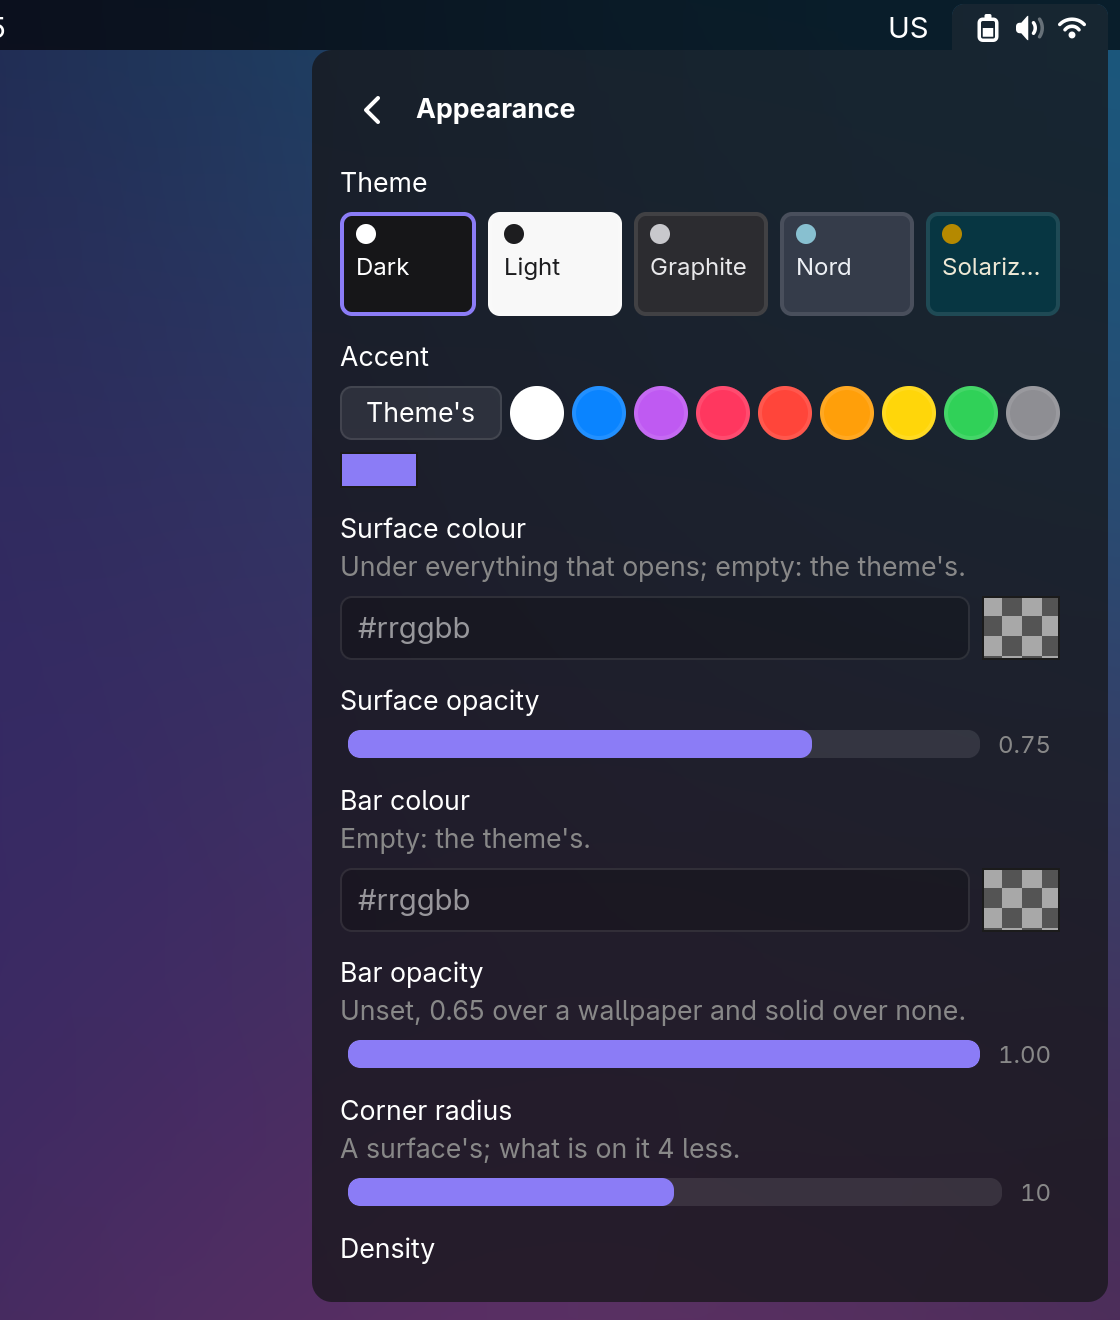
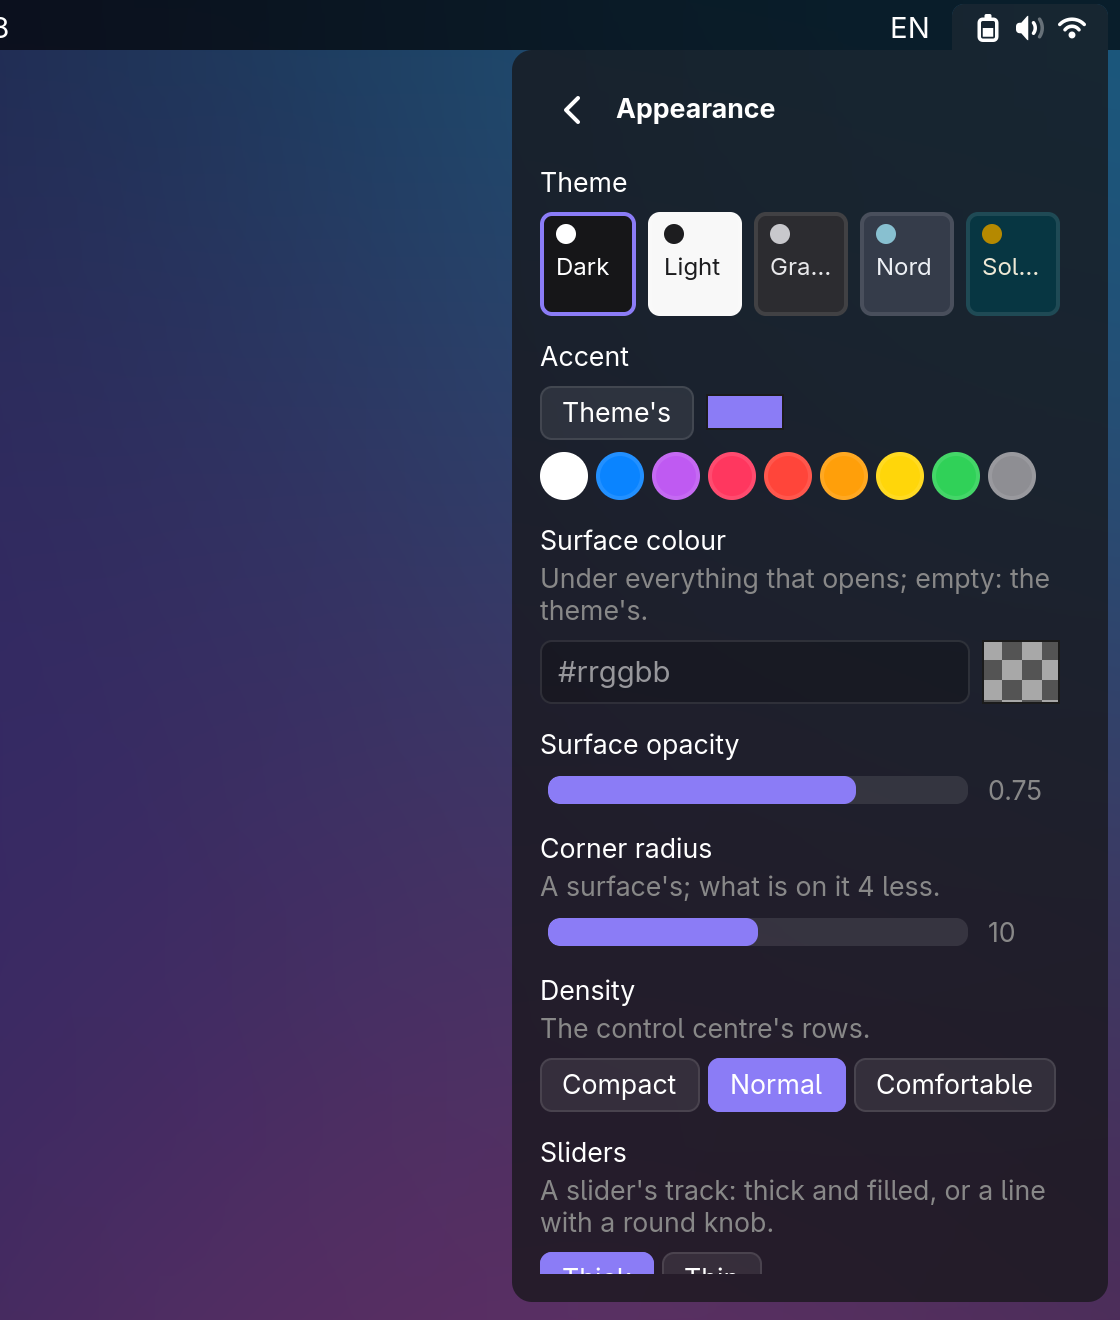
feat(kit): its page, every piece in its states (ostrov kit), in the screenshots

diff --git a/src/ui.rs b/src/ui.rs
@@ -560,3 +560,113 @@ pub fn battery_time(b: &Value) -> String {
         },
     }
 }
+
+/// The kit itself, every piece in its states on one page (`ostrov kit`): to see a change to the kit or a theme
+/// everywhere at once, and the screenshots' check. Nothing on it does anything but show itself.
+pub fn gallery(back: impl Fn() + 'static) -> gtk4::Box {
+    let root = gtk4::Box::new(Orientation::Vertical, 6);
+    root.append(&header(t("Kit"), back).0);
+    let body = gtk4::Box::new(Orientation::Vertical, 8);
+    body.add_css_class("page-body");
+    let part = |title: &str, w: &gtk4::Widget| {
+        body.append(&label(title, "dim"));
+        body.append(w);
+    };
+
+    // toggles: on with its menu, off, its glyph, its icon alone
+    let grid = gtk4::Grid::new();
+    grid.set_column_spacing(6);
+    grid.set_row_spacing(6);
+    grid.set_column_homogeneous(true);
+    let none: Option<Rc<dyn Fn()>> = None;
+    let on = Toggle::new("network-wireless-symbolic", "Wi-Fi", || (), Some(Rc::new(|| ())));
+    on.set(true, "network-wireless-symbolic", "Home");
+    let off = Toggle::new("bluetooth-symbolic", "Bluetooth", || (), Some(Rc::new(|| ())));
+    off.set(false, "bluetooth-disabled-symbolic", "Off");
+    let glyph = Toggle::new("input-keyboard-symbolic", "Keyboard", || (), none.clone());
+    glyph.glyph("EN");
+    glyph.set(false, "", "English");
+    let small = Toggle::new("weather-clear-night-symbolic", "Night", || (), none);
+    small.set(true, "", "");
+    small.size(1, 1);
+    grid.attach(&on.root, 0, 0, 2, 1);
+    grid.attach(&off.root, 2, 0, 2, 1);
+    grid.attach(&glyph.root, 0, 1, 2, 1);
+    grid.attach(&small.root, 2, 1, 1, 1);
+    grid.attach(&round("system-lock-screen-symbolic", || ()), 3, 1, 1, 1);
+    part(t("Toggles and round buttons"), grid.upcast_ref());
+
+    // sliders: any value, a few steps with their dots, its value beside it
+    let sliders = gtk4::Box::new(Orientation::Vertical, 6);
+    let any = Slider::new("audio-volume-high-symbolic", |_| ());
+    any.set(0.6, "");
+    any.root.append(&arrow(Rc::new(|| ())));
+    let words: Rc<dyn Fn(f64) -> String> = Rc::new(|v| format!("{}%", (v * 100.0).round()));
+    let steps = Slider::with_range("display-brightness-symbolic", 0.0, 1.0, 0.25, words, |_| ());
+    steps.set(0.5, "");
+    let n: Rc<dyn Fn(f64) -> String> = Rc::new(|v| format!("{v:.0}"));
+    let valued = Slider::with_range("", 0.0, 20.0, 1.0, n, |_| ()).with_value();
+    valued.set(10.0, "");
+    for s in [&any.root, &steps.root, &valued.root] {
+        sliders.append(s);
+    }
+    part(t("Sliders"), sliders.upcast_ref());
+
+    // chips: one of them, any of them; buttons beside
+    let chips = gtk4::Box::new(Orientation::Vertical, 6);
+    chips.append(&options(&["Compact", "Normal", "Comfortable"], &[false, true, false], false, |_, _| ()));
+    chips.append(&options(&["Mon", "Tue", "Wed", "Thu", "Fri"], &[true, true, false, true, false], true, |_, _| ()));
+    let buttons = chip_flow();
+    flow_in(&buttons, &chip("Cancel"));
+    flow_in(&buttons, &primary("Connect"));
+    let dis = chip("Disabled");
+    dis.set_sensitive(false);
+    flow_in(&buttons, &dis);
+    chips.append(&buttons);
+    part(t("Chips and buttons"), chips.upcast_ref());
+
+    // a menu's card: its rows, the one on ticked, a fold
+    let (card, items) = menu("network-wireless-symbolic", "Wi-Fi");
+    items.append(&row("network-wireless-signal-excellent-symbolic", "Home", "", true, || ()));
+    items.append(&row("network-wireless-signal-good-symbolic", "Office", "secured", false, || ()));
+    items.append(&gtk4::Separator::new(Orientation::Horizontal));
+    items.append(&fold("More", &label("What a fold holds", "dim")));
+    part(t("Menu"), card.upcast_ref());
+
+    // a form's fields: a switch, a number, words, a choice
+    let form = gtk4::Box::new(Orientation::Vertical, 0);
+    let sw = gtk4::Switch::new();
+    sw.set_active(true);
+    form.append(&setting("A switch", "Its help under its title.", &sw, false));
+    form.append(&setting("A number", "", &gtk4::SpinButton::with_range(0.0, 10.0, 1.0), false));
+    let entry = gtk4::Entry::new();
+    entry.set_placeholder_text(Some("Words"));
+    form.append(&setting("Words", "Across the width.", &entry, true));
+    part(t("Settings"), form.upcast_ref());
+
+    // words and the rest: their classes, a card, a progress, a badge
+    let words = gtk4::Box::new(Orientation::Vertical, 4);
+    for (text, class) in [("A title", "title"), ("Bold", "bold"), ("Plain", ""), ("Dim, said second", "dim"), ("An error", "error")] {
+        words.append(&label(text, class));
+    }
+    let progress = gtk4::ProgressBar::new();
+    progress.add_css_class("progress");
+    progress.set_fraction(0.4);
+    words.append(&progress);
+    let c = gtk4::Box::new(Orientation::Horizontal, 10);
+    c.add_css_class("card");
+    let badge = gtk4::Image::from_icon_name("audio-speakers-symbolic");
+    badge.add_css_class("badge");
+    c.append(&badge);
+    c.append(&label("A card, its badge", ""));
+    words.append(&c);
+    part(t("Words and cards"), words.upcast_ref());
+
+    let scroll = gtk4::ScrolledWindow::new();
+    scroll.set_hscrollbar_policy(gtk4::PolicyType::Never);
+    scroll.set_propagate_natural_height(true);
+    scroll.set_max_content_height(640);
+    scroll.set_child(Some(&body));
+    root.append(&scroll);
+    root
+}

diff --git a/src/main.rs b/src/main.rs
@@ -62,7 +62,7 @@ thread_local! {
 /// ostrov's own commands, in forms.rs's grammar; besides them a bar block's (BLOCK ARGS) and a module's (MODULE
 /// ARGS).
 const FORMS: &[&str] = &[
-    "panel", "menu NAME", "settings [SECTION]", "appearance", "calendar", "run", "clip",
+    "panel", "menu NAME", "settings [SECTION]", "appearance", "kit", "calendar", "run", "clip",
     "lock", "dnd [on|off]", "notifications clear", "restart", "hyprland", "key NAME", "awake", "screenshot", "capture FILE", "pick-region",
     "share-pick [--allow-token]",
     "bar toggle|peek|unpeek|edit", "bar edit BLOCK", "state", "dump", "toast TITLE [BODY...]", "dialog JSON", "plugins",
@@ -152,6 +152,8 @@ fn activate(app: &gtk4::Application) {
                 // Appearance page
                 ["settings", ref entry @ ..] => panel("control")?.toggle_page("settings", entry.first().copied()),
                 ["appearance"] => panel("control")?.toggle_page("appearance", None),
+                // every piece of the kit on one page
+                ["kit"] => panel("control")?.toggle_page("kit", None),
                 ["run"] => launcher.toggle(false),
                 ["clip"] => launcher.toggle(true),
                 ["lock"] => lock.lock(),

diff --git a/src/settings/mod.rs b/src/settings/mod.rs
@@ -471,7 +471,7 @@ pub fn appearance() -> Vec<Section> {
         Field::new("density", "Density", Kind::Choice { options: opts(&[("compact", "Compact"), ("normal", "Normal"), ("comfortable", "Comfortable")]) })
             .default(theme.density.unwrap_or("normal".into()))
             .help("The control centre's rows."),
-        Field::new("sliders", "Sliders", Kind::Choice { options: opts(&[("bar", "Bar"), ("thin", "Thin")]) })
+        Field::new("sliders", "Sliders", Kind::Choice { options: opts(&[("bar", "Thick"), ("thin", "Thin")]) })
             .default("bar")
             .help("A slider's track: thick and filled, or a line with a round knob."),
         Field::new("language", "Language", Kind::Choice { options: opts(&[("", "System"), ("en", "English"), ("ru", "Русский")]) })

diff --git a/src/style.rs b/src/style.rs
@@ -43,6 +43,7 @@ window { background: transparent; }
 scrolledwindow { background: none; }
 button { background: none; border: none; box-shadow: none; outline: none; min-height: 0; min-width: 0; padding: 0; }
 /* the keyboard's focus seen (Tab through a question's password and buttons), the pointer's clicks not ringed */
+button:disabled { opacity: 0.45; }
 button:focus-visible, entry:focus-visible, passwordentry:focus-visible { outline: 2px solid @accent; outline-offset: 2px; }
 separator { background: @rule; margin: 4px; min-height: 1px; min-width: 1px; }
 

diff --git a/src/cc/mod.rs b/src/cc/mod.rs
@@ -1405,6 +1405,8 @@ pub fn build(host: &Rc<crate::popup::Host>, hub: &Rc<Hub>, tab: &impl IsA<gtk4::
         pages.add_named(&settings.root, Some("settings"));
         let pg = pages.clone();
         pages.add_named(&appearance::page(move || pg.set_visible_child_name("grid")), Some("appearance"));
+        let pg = pages.clone();
+        pages.add_named(&crate::ui::gallery(move || pg.set_visible_child_name("grid")), Some("kit"));
         settings
     });
 

diff --git a/specs/02-panels.md b/specs/02-panels.md
@@ -31,3 +31,4 @@ The owner's words (2026-10-04): «модульность, как в макоси
 | PNL-23 | Every widget SHALL show a hover: its badge's by default (the battery's time left, a toggle's state, a slider's level), a plugin's its tree's `tooltip`; hovers SHALL show in an open panel too, drawn in the bar's window (GTK's own popups are held back by Hyprland's focus grab) (2026-10-05) | ✅ | `cc` draw, `popup::hover_tips`, plugins' `tooltip` |
 | PNL-24 | A tile's content SHALL never be cut on any grid: a cell as wide whatever the panel's width in cells, words shortened, the inspector wrapping rather than widening the panel; sliders SHALL go half wide, two to a row; the player SHALL go two cells square, its play over the cover (2026-10-05: «в чём смысл такого обрезания?») | ✅ | `Spec::width_for`, `ui::chips`, `SLIDER` |
 | PNL-25 | One slider for widgets, the Settings and plugins: its track as [appearance] sliders says (bar, thin with a round knob), a bubble with its value over the knob while it moves, a dot on each step and kept to them when it has 12 or fewer (2026-10-05) | ✅ | `ui::Slider`, `popup::bubble`, plugins' `steps` |
+| PNL-26 | The kit SHALL have a page of its own with every piece in its states (`ostrov kit`), shot by the screenshots (2026-10-05) | ✅ | `ui::gallery`, `docs/screenshots/kit.png` |
